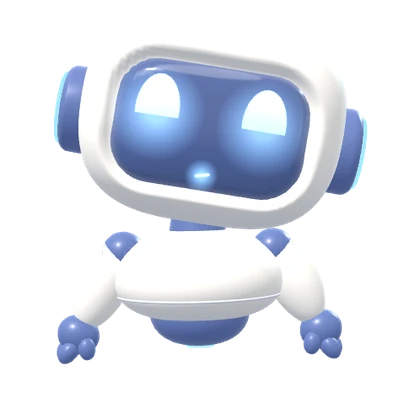
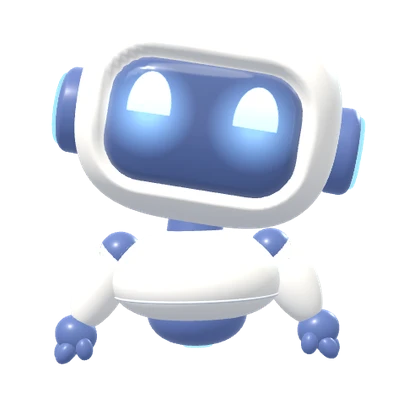
Molí 2: Molí sin boca ni corazón; tarjetas del Exit ticket para imprimir y escanear
- Molí se expresa sólo con los ojos (se quitó la boca y la expresión de corazón); imágenes nuevas
- Docente: «🖨 Tarjetas» en cada sesión: A4 horizontal, 4 tarjetas adelante y las preguntas atrás,
  con las mismas medidas de Molí 1 (el escáner lee también las tarjetas impresas en Molí 1)

Claude-Session: https://claude.ai/code/session_01NztUai9PRWWNGXcHDoXrVx

diff --git a/index.html b/index.html
@@ -147,7 +147,7 @@
 <link rel="stylesheet" href="hojas.css">
 <script src="https://cdnjs.cloudflare.com/ajax/libs/three.js/r128/three.min.js"></script>
 <script src="datos.js"></script><script src="docente.js"></script>
-<script src="hojas.js"></script><script src="hojas-docente.js"></script><script src="diplomas.js"></script><script src="fotocheck.js"></script><script src="herramientas.js"></script><script src="remoto.js"></script><script src="escaner.js"></script>
+<script src="hojas.js"></script><script src="hojas-docente.js"></script><script src="diplomas.js"></script><script src="fotocheck.js"></script><script src="herramientas.js"></script><script src="remoto.js"></script><script src="escaner.js"></script><script src="tarjetas.js"></script>
 <style id="splashCss">
   /* ---- pantalla de carga (como la de Molí 1): MOLÍ en letras grandes y Molí 3D trayendo el número 2 ---- */
   #splash { position: fixed; inset: 0; z-index: 200; display: flex; flex-direction: column; align-items: center; justify-content: center; overflow: hidden;
@@ -177,7 +177,7 @@
   @keyframes dosWig { 0%, 100% { transform: rotate(8deg); } 50% { transform: rotate(-4deg) translateY(-.04em); } }
   @keyframes fadeUp { from { opacity: 0; transform: translateY(10px); } to { opacity: 1; transform: none; } }
   @keyframes barra { from { transform: scaleX(0); } to { transform: scaleX(1); } }
-  /* cambia de expresión: normal → feliz → amor → estrellas → feliz */
+  /* cambia de expresión: normal → feliz → guiño → estrellas → feliz */
   @keyframes ex0 { 0%, 18% { opacity: 1; } 19%, 100% { opacity: 0; } }
   @keyframes ex2 { 0%, 18% { opacity: 0; } 19%, 40% { opacity: 1; } 41%, 79% { opacity: 0; } 80%, 100% { opacity: 1; } }
   @keyframes ex1 { 0%, 40% { opacity: 0; } 41%, 58% { opacity: 1; } 59%, 100% { opacity: 0; } }
@@ -2025,7 +2025,6 @@ function crearMoli(THREE, opt = {}) {
     else if (kind === 'happy') { g.lineWidth = 19; g.beginPath(); g.arc(64, 116, 32, Math.PI * 1.08, Math.PI * 1.92); g.stroke(); }
     else if (kind === 'closed') { g.lineWidth = 14; g.beginPath(); g.moveTo(36, 100); g.quadraticCurveTo(64, 116, 92, 100); g.stroke(); }
     else if (kind === 'wink') { g.lineWidth = 15; g.beginPath(); g.moveTo(84, 72); g.lineTo(44, 96); g.lineTo(84, 120); g.stroke(); }
-    else if (kind === 'heart') { g.beginPath(); g.moveTo(64, 140); g.bezierCurveTo(10, 104, 30, 52, 64, 80); g.bezierCurveTo(98, 52, 118, 104, 64, 140); g.fill(); }
     else if (kind === 'star') { g.beginPath(); for (let k = 0; k < 10; k++) { const r = k % 2 ? 22 : 50, a = -Math.PI / 2 + k * Math.PI / 5; g.lineTo(64 + Math.cos(a) * r, 98 + Math.sin(a) * r); } g.closePath(); g.fill();
       g.fillStyle = 'rgba(255,255,255,.9)'; g.beginPath(); g.ellipse(56, 84, 6, 8, -0.3, 0, 6.3); g.fill(); }
     else if (kind === 'sadL' || kind === 'sadR') { const d = kind === 'sadL' ? 1 : -1;               // ojitos tristes: el párpado de arriba cae hacia afuera
@@ -2039,7 +2038,7 @@ function crearMoli(THREE, opt = {}) {
       g.save(); g.beginPath(); g.rect(0, 0, 128, 100); g.clip(); g.beginPath(); g.ellipse(64, 92, 30, 48, 0, 0, 6.3); g.fill(); g.restore();
       g.fillStyle = 'rgba(255,255,255,.9)'; g.beginPath(); g.ellipse(74, 62, 7, 10, 0.2, 0, 6.3); g.fill(); }
   });
-  ['open', 'wow', 'happy', 'closed', 'wink', 'heart', 'star', 'sadL', 'sadR', 'think', 'angL', 'angR'].forEach(k => EYE[k] = eyeTex(k));
+  ['open', 'wow', 'happy', 'closed', 'wink', 'star', 'sadL', 'sadR', 'think', 'angL', 'angR'].forEach(k => EYE[k] = eyeTex(k));
   const MOUTH = {};
   const mouthTex = (kind) => canvasTex(128, 96, (g) => {
     halo(g, 64, 48, 46); g.fillStyle = g.strokeStyle = lightFill(g, 20, 80); g.lineCap = 'round';
@@ -2092,7 +2091,7 @@ function crearMoli(THREE, opt = {}) {
   // ojos y boca (planitos de luz sobre el visor)
   const face = new THREE.Group(); face.position.set(0, VI.y, 0.502); head.add(face);
   const eyes = [-1, 1].map(sx => { const m = new THREE.Mesh(new THREE.PlaneGeometry(0.4, 0.6), ADD({ map: EYE.open })); m.position.set(0.225 * sx, 0.035, 0); m.rotation.y = 0.14 * sx; face.add(m); return m; });
-  const mouth = new THREE.Mesh(new THREE.PlaneGeometry(0.2, 0.15), ADD({ map: MOUTH.smile, opacity: 0 })); mouth.position.set(0, -0.2, -0.004); face.add(mouth);
+  const mouth = new THREE.Mesh(new THREE.PlaneGeometry(0.2, 0.15), ADD({ map: MOUTH.smile, opacity: 0 })); mouth.position.set(0, -0.2, -0.004); mouth.visible = false;   // Molí no tiene boca: se expresa con los ojos
   // audífonos: disco azul noche con aro de luz y su brillito
   const ears = [-1, 1].map(sx => {
     const e = new THREE.Group(); e.position.set(0.58 * sx, VI.y + 0.02, -0.04); head.add(e);
@@ -2167,7 +2166,7 @@ function crearMoli(THREE, opt = {}) {
     const ty = Math.max(-0.9, Math.min(0.9, Math.atan2(tmp.x, tmp.z))), tx = Math.max(-0.38, Math.min(0.42, -Math.atan2(tmp.y - 0.45, Math.hypot(tmp.x, tmp.z))));
     [S.hy, S.vy] = spring(S.hy, S.vy, ty, 32, 7.5, dt);
     [S.hx, S.vx] = spring(S.hx, S.vx, tx + nod + (S.talk ? Math.sin(t * 6.5) * 0.04 : 0) - (cheer ? 0.06 : 0) + (S.expr === 'triste' ? 0.13 : 0), 36, 7.5, dt);
-    [S.hz, S.vz] = spring(S.hz, S.vz, -S.tilt * 0.6 + Math.sin(t * 1.05) * 0.035 + (S.talk ? Math.sin(t * 2.7) * 0.05 : 0) + (S.expr === 'guiño' || S.expr === 'amor' ? 0.14 : S.expr === 'pensativo' ? -0.2 : S.expr === 'triste' ? 0.08 : 0), 30, 7, dt);
+    [S.hz, S.vz] = spring(S.hz, S.vz, -S.tilt * 0.6 + Math.sin(t * 1.05) * 0.035 + (S.talk ? Math.sin(t * 2.7) * 0.05 : 0) + (S.expr === 'guiño' ? 0.14 : S.expr === 'pensativo' ? -0.2 : S.expr === 'triste' ? 0.08 : 0), 30, 7, dt);
     headPivot.rotation.set(S.hx, S.hy, S.hz);
     S.ex += (Math.max(-1, Math.min(1, ty * 1.4)) * 0.024 + S.sac.x - S.ex) * Math.min(1, dt * 12);
     S.ey += (Math.max(-1, Math.min(1, -tx * 2)) * 0.018 + S.sac.y - S.ey) * Math.min(1, dt * 12);
@@ -2189,11 +2188,11 @@ function crearMoli(THREE, opt = {}) {
     S.nextBlink -= dt; if (S.nextBlink <= 0) { S.blink = 0.15; S.nextBlink = Math.random() < 0.22 ? 0.26 : 2 + Math.random() * 3.5; }
     let open = 1; if (S.blink > 0) { S.blink -= dt; const k = 1 - Math.abs(S.blink / 0.075 - 1); open = 1 - Math.max(0, k) * 0.94; }
     const ex = S.expr, happy = cheer || S.act === 'girar';
-    // 8 expresiones: normal, feliz, sorpresa, amor, guiño, estrellas, triste y pensativo
-    const kind = happy ? 'happy' : ex === 'sorpresa' ? 'wow' : ex === 'amor' ? 'heart' : ex === 'estrellas' ? 'star' : ex === 'triste' ? 'sad' : ex === 'enojado' ? 'ang' : ex === 'pensativo' ? 'think' : 'open';
+    // 8 expresiones (sólo con los ojos): normal, feliz, sorpresa, guiño, estrellas, triste, pensativo y enojado
+    const kind = happy ? 'happy' : ex === 'sorpresa' ? 'wow' : ex === 'estrellas' ? 'star' : ex === 'triste' ? 'sad' : ex === 'enojado' ? 'ang' : ex === 'pensativo' ? 'think' : 'open';
     eyes.forEach((e, i) => { const wink = ex === 'guiño' && i === 1, map = wink ? EYE.wink : kind === 'sad' ? EYE[i ? 'sadR' : 'sadL'] : kind === 'ang' ? EYE[i ? 'angR' : 'angL'] : EYE[kind];
       if (e.material.map !== map) e.material.map = map;
-      const sy = (happy || wink || kind === 'heart' || kind === 'star' ? 1 : open) * (S.talk ? 1 + Math.abs(Math.sin(t * 10)) * 0.05 : 1);
+      const sy = (happy || wink || kind === 'star' ? 1 : open) * (S.talk ? 1 + Math.abs(Math.sin(t * 10)) * 0.05 : 1);
       e.scale.set(kind === 'wow' ? 1.06 : 1, sy, 1); e.material.opacity = 0.9 + Math.sin(t * 3 + i) * 0.1; });
     // boquita: aparece al hablar (se abre y se cierra), sonrisa cuando está feliz, "o" de sorpresa
     let mMap = MOUTH.smile, mOp = 0, mSy = 1;
@@ -2202,7 +2201,7 @@ function crearMoli(THREE, opt = {}) {
     else if (ex === 'estrellas') { mMap = MOUTH.open; mOp = 1; mSy = 0.8; }
     else if (ex === 'triste' || ex === 'enojado') { mMap = MOUTH.frown; mOp = 1; }
     else if (ex === 'pensativo') { mMap = MOUTH.flat; mOp = 1; }
-    else if (happy || ex === 'feliz' || ex === 'guiño' || ex === 'amor') { mMap = MOUTH.smile; mOp = 1; }
+    else if (happy || ex === 'feliz' || ex === 'guiño') { mMap = MOUTH.smile; mOp = 1; }
     if (mouth.material.map !== mMap) mouth.material.map = mMap;
     mouth.material.opacity += (mOp - mouth.material.opacity) * Math.min(1, dt * 14); mouth.scale.y += (mSy - mouth.scale.y) * Math.min(1, dt * 22);
     // luces que respiran: audífonos, base y el aro del piso con sus ondas
@@ -2309,7 +2308,7 @@ async function guiar() {                                             // en el pr
   for (let k = 0; k < 80 && MO.flying; k++) await wait(100);
   if (TOUR.i !== i) return;
   const lado = tv.copy(MO.pos).project(camera).x > 0 ? -1 : 1;         // señala hacia lo que se ve
-  moli.accion(i === 0 ? 'saludar' : 'señalar', lado); moli.expr(['feliz', 'estrellas', 'guiño', 'sorpresa', 'pensativo', 'amor', 'feliz', 'estrellas'][i] || 'feliz'); setTimeout(() => moli.expr('normal'), 2600);
+  moli.accion(i === 0 ? 'saludar' : 'señalar', lado); moli.expr(['feliz', 'estrellas', 'guiño', 'sorpresa', 'pensativo', 'guiño', 'feliz', 'estrellas'][i] || 'feliz'); setTimeout(() => moli.expr('normal'), 2600);
   await decir(GUIA[i]);
   if (Object.keys(MO.said).length >= GUIA.length) {                  // terminó el tutorial: Molí se queda en el salón (en la vista de «Mi aula»)
     MO.tut = false; document.body.classList.remove('tut'); try { localStorage.setItem(TUT_OK, '1'); } catch (e) {} moli.accion('girar'); moli.expr('feliz'); setTimeout(() => moli.expr('normal'), 1600);

diff --git a/tarjetas.js b/tarjetas.js
@@ -1,0 +1,66 @@
+// ===================================================================
+//  MOLÍ 2 · TARJETAS DEL EXIT TICKET para escanear (las mismas de Molí 1: mismas medidas en milímetros)
+//  Adelante: código de la sesión, últimos 3 del DNI, sección, respuestas, conducta y participación.
+//  Atrás: las preguntas. Hoja A4 horizontal, 4 tarjetas por hoja, a doble cara.
+// ===================================================================
+(function () {
+  const esc = t => String(t == null ? '' : t).replace(/[&<>"']/g, c => ({ '&': '&amp;', '<': '&lt;', '>': '&gt;', '"': '&quot;', "'": '&#39;' }[c]));
+  const Li = Escaner.Li, LETRA = 'ABCD', DL = { AD: 1, A: .6, B: 0, C: -.7 };
+  const numU = u => { const t = parseInt(u.num, 10); return t >= 1 && t <= 15 ? t : 0; };
+  function bits(num, n, area = 0) { const a = [1]; for (let t = 3; t >= 0; t--) a.push(num >> t & 1); for (let t = 4; t >= 0; t--) a.push(n >> t & 1); for (let t = 3; t >= 0; t--) a.push(area >> t & 1); const s = (7 * num + 3 * n + 5 * area) % 4; a.push(s >> 1 & 1, s & 1, 0); return a; }
+  // ---- los elementos de la tarjeta (igual que Molí 1) ----
+  function elementos(u, n, s) {
+    const qs = MD.preguntas(s).slice(0, Li.ans.max), B = bits(numU(u), n), D = Li.dni, A = Li.ans, C = Li.code, E = [], K = '#2b3038', ad = A.dyf(qs.length);
+    Li.fid.forEach(([x, y]) => E.push({ t: 'rect', x: x - 3, y: y - 3, w: 6, h: 6, fill: '#595959' }));
+    C.pts.forEach(([x, y], i) => { if (i < B.length ? B[i] : 1) E.push({ t: 'rect', x: x - C.s / 2, y: y - C.s / 2, w: C.s, h: C.s, fill: '#111111' }); });
+    E.push({ t: 'text', x: 30.2, y: 14.4, s: `CIENCIA · UNIDAD ${u.num} · SESIÓN ${n}`, size: 3.4, bold: 1 });
+    E.push({ t: 'text', x: 13, y: 21.3, s: 'ÚLTIMOS 3 DÍGITOS', size: 2.75, bold: 1 }, { t: 'text', x: 13, y: 24.4, s: 'DE MI DNI', size: 2.75, bold: 1 });
+    for (let c = 0; c < D.n; c++) { const x = D.x0 + c * D.dx; E.push({ t: 'rect', x: x - 2.8, y: 26, w: 5.6, h: 5.4, stroke: '#555555', lw: .3 });
+      for (let k = 0; k < 10; k++) { const y = D.y0 + k * D.dy; E.push({ t: 'circle', x, y, r: D.r, stroke: '#222222', lw: .3 }, { t: 'text', x, y: y + 1.05, s: String(k), size: 3, color: K, align: 'center' }); } }
+    E.push({ t: 'text', x: 52.6, y: 21.3, s: 'SECCIÓN', size: 2.75, bold: 1 });
+    Li.sec.k.forEach((k, i) => E.push({ t: 'circle', x: Li.sec.x0 + i * Li.sec.dx, y: Li.sec.y, r: Li.sec.r, stroke: '#222222', lw: .3 }, { t: 'text', x: Li.sec.x0 + i * Li.sec.dx, y: Li.sec.y + 1.1, s: k, size: 3.2, color: K, align: 'center' }));
+    E.push({ t: 'text', x: 52.6, y: 33.7, s: 'MIS RESPUESTAS', size: 2.75, bold: 1 });
+    const caja = (x, y, w, h) => [[x, y, x + w, y], [x, y + h, x + w, y + h], [x, y, x, y + h], [x + w, y, x + w, y + h]].forEach(([a, b, c, d]) => E.push({ t: 'line', x1: a, y1: b, x2: c, y2: d, stroke: '#111111', lw: .3, dash: .8 }));
+    const fila = L => L.k.forEach((k, i) => { const x = L.x0 + i * L.dx, y = L.y; E.push({ t: 'circle', x, y, r: L.r, stroke: '#222222', lw: .3 });
+      if (L.face) { const col = '#5b6270'; [-1, 1].forEach(e => E.push({ t: 'circle', x: x + .8 * e, y: y - .6, r: .18, stroke: col, lw: .5 }));
+        const pt = e => [x - 1.1 + 2.2 * e, y + .45 + (DL[k] < 0 ? .55 : 0) + .75 * DL[k] * (1 - (2 * e - 1) ** 2)];
+        for (let e = 0; e < 6; e++) { const [a, b] = pt(e / 6), [c, d] = pt((e + 1) / 6); E.push({ t: 'line', x1: a, y1: b, x2: c, y2: d, stroke: col, lw: .45 }); } }
+      else E.push({ t: 'text', x, y: y + .95, s: k, size: k.length > 1 ? 2.6 : 2.9, color: K, align: 'center' }); });
+    if (qs.length <= Li.cond.max) { caja(51.5, 70.8, 35.7, 18.2); E.push({ t: 'text', x: 69.35, y: 73.7, s: 'Conducta', size: 2.6, bold: 1, align: 'center' }, { t: 'text', x: 69.35, y: 82.5, s: 'Participación', size: 2.6, bold: 1, align: 'center' }); fila(Li.cond); fila(Li.cls); }
+    else if (qs.length <= Li.cls.max) { caja(51.5, 77.4, 35.7, 11.6); E.push({ t: 'text', x: 69.35, y: 80.7, s: 'Participación', size: 2.6, bold: 1, align: 'center' }); fila(Li.cls); }
+    qs.forEach((q, i) => { const y = A.y0 + i * ad; E.push({ t: 'text', x: 54.8, y: y + 1.15, s: String(i + 1), size: 3.3, bold: 1, align: 'center' });
+      q.opts.forEach((o, k) => E.push({ t: 'circle', x: A.x0 + k * A.dx, y, r: A.r, stroke: '#222222', lw: .3 }, { t: 'text', x: A.x0 + k * A.dx, y: y + 1.1, s: LETRA[k], size: 3.1, color: K, align: 'center' })); });
+    return E;
+  }
+  // ---- a SVG (en milímetros: se imprime al tamaño exacto) ----
+  function svgTarjeta(u, n, s, extra = '') {
+    const el = elementos(u, n, s).map(e => e.t === 'rect' ? `<rect x="${e.x}" y="${e.y}" width="${e.w}" height="${e.h}" fill="${e.fill || 'none'}"${e.stroke ? ` stroke="${e.stroke}" stroke-width="${e.lw || .2}"` : ''}/>`
+      : e.t === 'circle' ? `<circle cx="${e.x}" cy="${e.y}" r="${e.r}" fill="none" stroke="${e.stroke || '#333'}" stroke-width="${e.lw || .22}"/>`
+      : e.t === 'line' ? `<line x1="${e.x1}" y1="${e.y1}" x2="${e.x2}" y2="${e.y2}" stroke="${e.stroke || '#777'}" stroke-width="${e.lw || .2}"${e.dash ? ` stroke-dasharray="${e.dash} ${e.dash}"` : ''}/>`
+      : `<text x="${e.x}" y="${e.y}" font-size="${e.size}" font-family="Arial, Helvetica, sans-serif"${e.bold ? ' font-weight="700"' : ''} fill="${e.color || '#111'}"${e.align === 'center' ? ' text-anchor="middle"' : ''}>${esc(e.s)}</text>`).join('');
+    return `<svg xmlns="http://www.w3.org/2000/svg" viewBox="0 0 ${Li.W} ${Li.H}" width="${Li.W}mm" height="${Li.H}mm"><rect x="0" y="0" width="${Li.W}" height="${Li.H}" fill="#fff"/>${el}${extra}</svg>`;
+  }
+  function preguntasHtml(u, n, s) {
+    const qs = MD.preguntas(s).slice(0, Li.ans.max);
+    return `<div class="tq"><b class="tq-t">U${esc(u.num)} S${n} · Exit ticket</b>${qs.map((q, i) => `<div class="tq-q"><b>${i + 1}. ${esc(q.q)}</b><div>${q.opts.map((o, k) => `<span><i>${LETRA[k]}</i>${esc(o.t)}</span>`).join('')}</div></div>`).join('')}</div>`;
+  }
+  // ---- imprimir: A4 horizontal, 4 tarjetas adelante y sus preguntas atrás ----
+  function imprimir(u, n) {
+    const s = u.sessions[n - 1]; if (!s || !MD.preguntas(s).length) return alert('Esta sesión no tiene Exit ticket.');
+    const t = svgTarjeta(u, n, s), p = preguntasHtml(u, n, s), cel = x => `<div class="c">${x}</div>`;
+    const w = window.open('', '_blank'); if (!w) return alert('Permite las ventanas emergentes para imprimir las tarjetas.');
+    w.document.write(`<!doctype html><html lang="es"><head><meta charset="utf-8"><title>Tarjetas · U${esc(u.num)} S${n}</title><style>
+      @page { size: A4 landscape; margin: 0; } * { box-sizing: border-box; } body { margin: 0; font-family: Arial, Helvetica, sans-serif; }
+      .hoja { width: 297mm; height: 210mm; display: grid; grid-template-columns: 1fr 1fr; grid-template-rows: 1fr 1fr; page-break-after: always; break-after: page; position: relative; }
+      .hoja::before, .hoja::after { content: ''; position: absolute; border: 0 dashed #b5bccb; } .hoja::before { left: 50%; top: 4mm; bottom: 4mm; border-left-width: .25mm; } .hoja::after { top: 50%; left: 4mm; right: 4mm; border-top-width: .25mm; }
+      .c { display: flex; align-items: center; justify-content: center; } .c svg { width: 107.5mm; height: 100.8mm; }
+      .tq { width: 128mm; padding: 2mm; font-size: 3.3mm; } .tq-t { display: block; font-size: 4mm; margin-bottom: 2mm; } .tq-q { margin: 0 0 2.4mm; } .tq-q div { display: flex; flex-wrap: wrap; gap: 1mm 4mm; margin-top: 1mm; }
+      .tq-q span { display: inline-flex; align-items: center; gap: 1.2mm; } .tq-q i { font-style: normal; font-weight: 700; width: 4mm; height: 4mm; border: .25mm solid #333; border-radius: 50%; display: inline-grid; place-items: center; font-size: 2.6mm; }
+      .ayuda { padding: 6mm; font-size: 4mm; } @media print { .ayuda { display: none; } }
+    </style></head><body><div class="ayuda">🖨 Imprime en A4 horizontal, a doble cara (voltear por el borde corto). Escala 100 %. <button onclick="print()">Imprimir</button></div>
+      <div class="hoja">${[0, 1, 2, 3].map(() => cel(t)).join('')}</div><div class="hoja">${[0, 1, 2, 3].map(() => cel(p)).join('')}</div>
+      <script>setTimeout(() => print(), 600)<\/script></body></html>`);
+    w.document.close();
+  }
+  window.Tarjetas = { elementos, svgTarjeta, preguntasHtml, imprimir, bits };
+})();

diff --git a/hojas-docente.js b/hojas-docente.js
@@ -176,7 +176,7 @@
         const cr = (s.criteria || []).filter(L), acts = (s.activities || []).slice(0, 3).filter(a => L(a.title) || L(a.desc)), q = MD.preguntas(s).length;
         H.push({ l: `<div class="crumb w">${esc(u.icon || '📘')} Unidad ${esc(u.num)}</div><div class="big w">Sesión ${n}</div>${L(s.title) ? `<h2 class="w">${esc(s.title)}</h2>` : ''}
             ${L(s.meta) ? `<h3 class="w">🎯 Meta</h3><p class="hand w">${esc(s.meta)}</p>` : ''}${cr.length ? `<h3 class="w">✅ Criterios</h3><ul class="cr hand">${cr.map(c => `<li class="w">${esc(c)}</li>`).join('')}</ul>` : ''}
-            <p class="center w"><button class="bt or" data-a="editar" data-n="${n}">✏ Editar sesión</button></p>`,
+            <p class="center w"><button class="bt or" data-a="editar" data-n="${n}">✏ Editar sesión</button>${q ? ` <button class="bt" data-a="tarjetas" data-n="${n}">🖨 Tarjetas</button>` : ''}</p>`,
           r: `<h2 class="w">🧪 Actividades</h2>${acts.map((a, j) => `<div class="act w"><b class="n">${j + 1}</b>${MODOS[String(a.mode || '').toLowerCase()] ? `<span class="chip">${MODOS[String(a.mode || '').toLowerCase()]}</span>` : ''}<div><b>${esc(a.title || 'Actividad ' + (j + 1))}</b></div>${L(a.desc) ? `<p class="hand">${esc(a.desc)}</p>` : ''}</div>${videoHtml(a)}`).join('') || '<p class="hand w">Sin actividades todavía.</p>'}
             ${q ? `<div class="box w">🎟 <b>Exit ticket</b> · ${q} preguntas</div>` : ''}` });
         if (s.fx) H.push({ l: fichaHtml(s.fx, n), r: null });
@@ -216,6 +216,7 @@
       el.addEventListener('change', ev => { const t = ev.target, p = t.dataset && t.dataset.ed; if (!p || !F.ed) return; setPath(F.ed.s, p, t.type === 'radio' ? +t.value : t.value); }); };
     F.act2 = async (a, ds, el) => {
       if (a === 'video') { el.outerHTML = `<div class="vid on"><iframe src="https://www.youtube-nocookie.com/embed/${encodeURIComponent(ds.y)}?autoplay=1&rel=0&start=${+ds.t || 0}" allow="autoplay; encrypted-media; fullscreen" allowfullscreen></iframe></div>`; return; }
+      if (a === 'tarjetas') return Tarjetas.imprimir(F.u, +ds.n);   // tarjetas del Exit ticket para escanear
       if (a === 'editar') { const n = +ds.n; F.ed = { n, s: {}, estado: 'cargando' }; F.libro.pasar(1, () => { F.i = 0; });
         try { const s = await MD.sesionCruda(F.u.key, n); F.ed = { n, s: s || {}, estado: '' }; } catch (x) { F.ed = null; alert(errTxt(x)); }
         return F.libro.pinta(true); }

diff --git a/remoto.js b/remoto.js
@@ -98,7 +98,7 @@
       <div class="rc-card"><b>🏅 Grupos · +1 punto</b><div class="rc-gp">${GC.map((c, k) => `<button data-rc="g" data-v="${k}" style="--c:${c}">G${k + 1}<small>${p[k] || 0}</small></button>`).join('')}</div></div>
       <div class="rc-card"><b>🎲 Sorteo</b><div class="rc-sr">${['A', 'B', 'C', 'D'].map(x => `<button data-rc="srs" data-v="${x}" class="${sec === x ? 'on' : ''}">6° ${x}</button>`).join('')}<button data-rc="sr" class="rc-go">¡Sortear en 6° ${sec}!</button></div></div>
       <div class="rc-card"><b>🤖 Animaciones de Molí</b><div class="rc-an">${ANIM.map(([k, i, t]) => `<button data-rc="an" data-v="${k}"><i>${i}</i>${t}</button>`).join('')}</div>
-        <div class="rc-mx">${['feliz', 'estrellas', 'sorpresa', 'amor', 'guiño', 'pensativo', 'triste', 'enojado'].map(x => `<button data-rc="mx" data-v="${x}">${{ feliz: '😊', estrellas: '🤩', sorpresa: '😮', amor: '😍', 'guiño': '😉', pensativo: '🤔', triste: '😢', enojado: '😠' }[x]}</button>`).join('')}</div></div>
+        <div class="rc-mx">${['feliz', 'estrellas', 'sorpresa', 'guiño', 'pensativo', 'triste', 'enojado', 'normal'].map(x => `<button data-rc="mx" data-v="${x}">${{ feliz: '😊', estrellas: '🤩', sorpresa: '😮', 'guiño': '😉', pensativo: '🤔', triste: '😢', enojado: '😠', normal: '🙂' }[x]}</button>`).join('')}</div></div>
       <p class="rc-pie"><button data-rc="off">⏻ Apagar el control</button></p>`;
   }
   async function sortear() {
